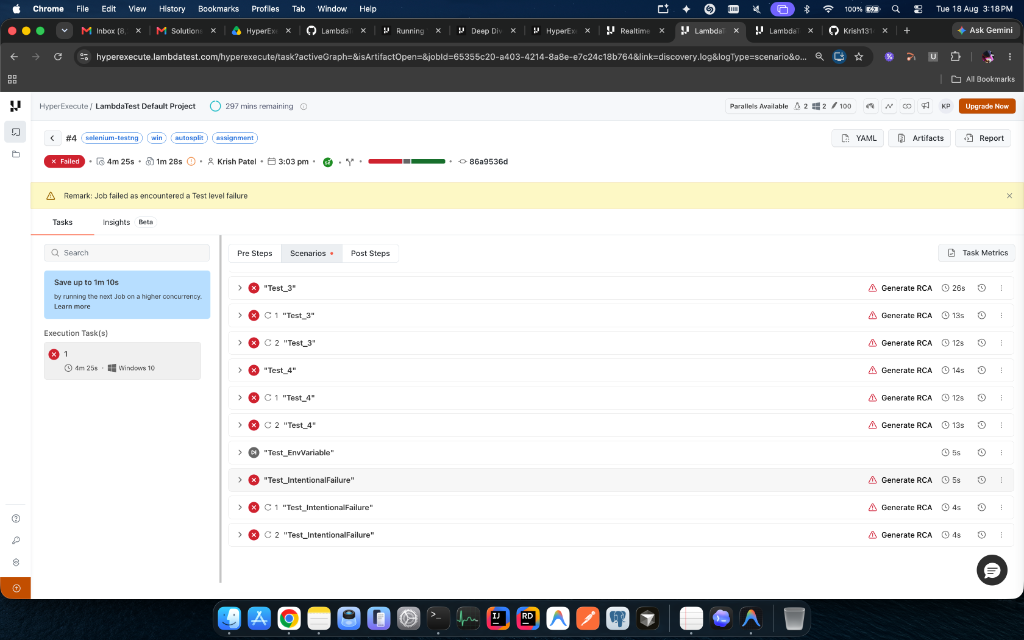
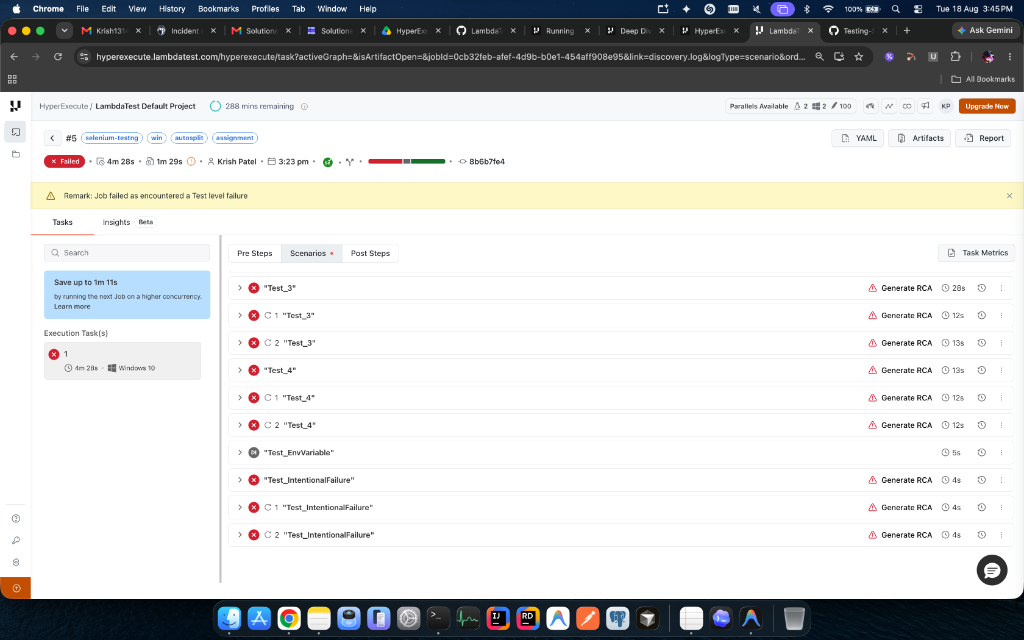
docs: update latest Job #5 screenshots in README

diff --git a/ASSIGNMENT_README.md b/ASSIGNMENT_README.md
@@ -101,18 +101,18 @@ jobLabel: [selenium-testng, win, autosplit, assignment]
   - `✔ [1] "Test_EnvVariable"` (Passed)
   - `x [1] "Test_IntentionalFailure"` + `{retry 1}` + `{retry 2}` (Verified 2x Retries)
 
-#### Dashboard Screenshots Gallery
-| 1. Setup Runtime (Java 11) | 2. Pre Steps & Env Echo |
+#### Dashboard Screenshots Gallery (Job #5)
+| 1. Setup Runtime (Java 11) | 2. Pre Steps ($env:ENVIRONMENT Echo) |
 |:---:|:---:|
 | ![Setup Runtime](screenshots/01_setup_runtime.png) | ![Pre Steps](screenshots/02_pre_steps.png) |
 
-| 3. Dynamic Test Discovery | 4. Scenarios & Retries |
+| 3. Dynamic Test Discovery | 4. Scenarios Overview & Retries |
 |:---:|:---:|
-| ![Test Discovery](screenshots/03_test_discovery.png) | ![Scenarios & Retries](screenshots/04_scenarios_and_retries.png) |
+| ![Test Discovery](screenshots/03_test_discovery.png) | ![Scenarios Overview](screenshots/04_scenarios_top.png) |
 
-| 5. Grid Execution Details | 6. Post Steps (Cache Upload) |
+| 5. Env Variable & Intentional Failure Retries | 6. Post Steps (Cache Upload) |
 |:---:|:---:|
-| ![Execution Details](screenshots/05_test_execution_details.png) | ![Post Steps](screenshots/06_post_steps.png) |
+| ![Scenarios & Retries](screenshots/04_scenarios_and_retries.png) | ![Post Steps](screenshots/06_post_steps.png) |
 
 ---
 

diff --git a/README.md b/README.md
@@ -101,18 +101,18 @@ jobLabel: [selenium-testng, win, autosplit, assignment]
   - `✔ [1] "Test_EnvVariable"` (Passed)
   - `x [1] "Test_IntentionalFailure"` + `{retry 1}` + `{retry 2}` (Verified 2x Retries)
 
-#### Dashboard Screenshots Gallery
-| 1. Setup Runtime (Java 11) | 2. Pre Steps & Env Echo |
+#### Dashboard Screenshots Gallery (Job #5)
+| 1. Setup Runtime (Java 11) | 2. Pre Steps ($env:ENVIRONMENT Echo) |
 |:---:|:---:|
 | ![Setup Runtime](screenshots/01_setup_runtime.png) | ![Pre Steps](screenshots/02_pre_steps.png) |
 
-| 3. Dynamic Test Discovery | 4. Scenarios & Retries |
+| 3. Dynamic Test Discovery | 4. Scenarios Overview & Retries |
 |:---:|:---:|
-| ![Test Discovery](screenshots/03_test_discovery.png) | ![Scenarios & Retries](screenshots/04_scenarios_and_retries.png) |
+| ![Test Discovery](screenshots/03_test_discovery.png) | ![Scenarios Overview](screenshots/04_scenarios_top.png) |
 
-| 5. Grid Execution Details | 6. Post Steps (Cache Upload) |
+| 5. Env Variable & Intentional Failure Retries | 6. Post Steps (Cache Upload) |
 |:---:|:---:|
-| ![Execution Details](screenshots/05_test_execution_details.png) | ![Post Steps](screenshots/06_post_steps.png) |
+| ![Scenarios & Retries](screenshots/04_scenarios_and_retries.png) | ![Post Steps](screenshots/06_post_steps.png) |
 
 ---
 
